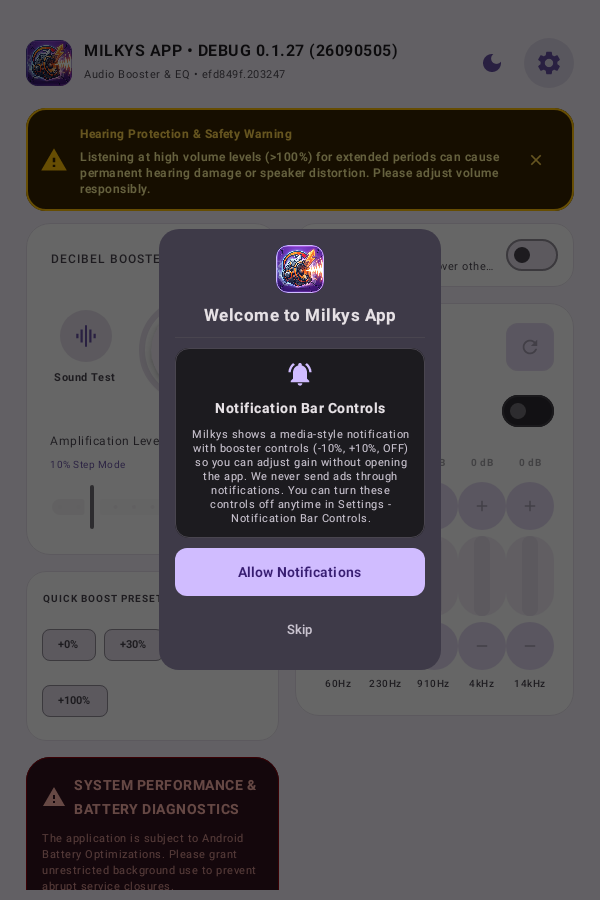
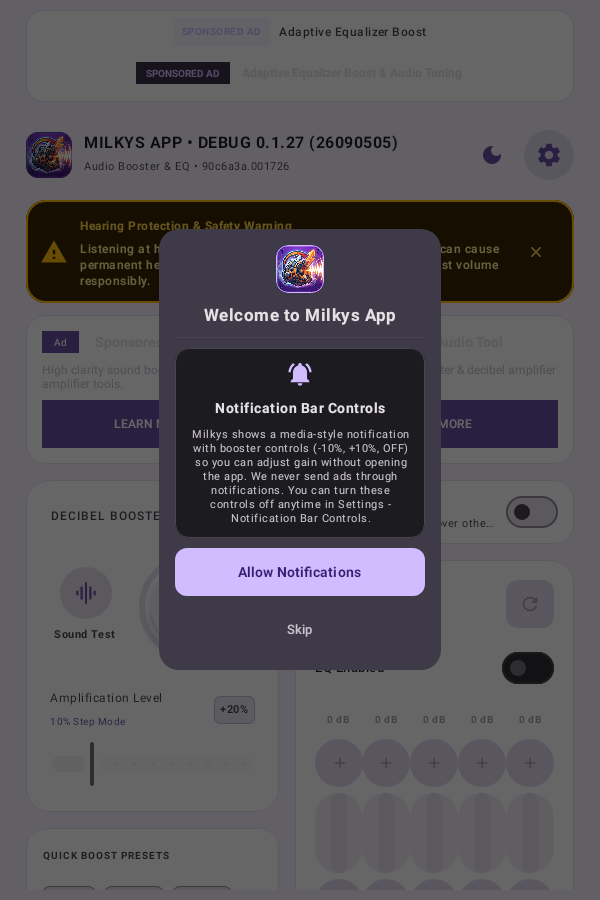
feat(ads): prod AdMob IDs, default-ON, on-by-default privacy redraft
- AdMob prod: app 6770897791730584~3020521714 (14 strings.xml + .env),
  banner /1694908312, native /7039657771 shared by both slots
- KEY_ADS_ENABLED default false->true (fresh installs; upgrades keep stored)
- Privacy fixtures redrafted on-by-default (EN+ID, re-paste before upload)
- Roborazzi refs re-recorded (ads render by default)
- Gates: testDebugUnitTest+lint green, verifyRoborazzi PASS
- Artifacts: debug 6a3a, release AAB upload-signed (26:18:06)

diff --git a/app/src/main/java/com/milkys/soundbooster/MainActivity.kt b/app/src/main/java/com/milkys/soundbooster/MainActivity.kt
@@ -1417,7 +1417,7 @@ fun DashboardScreen(
                                 Surface(
                                     onClick = { languageDropdownExpanded = !languageDropdownExpanded },
                                     shape = RoundedCornerShape(12.dp),
-                                    color = textPrimary,
+                                    color = borderDivider,
                                     border = BorderStroke(1.dp, borderDivider),
                                     modifier = Modifier
                                         .fillMaxWidth()
@@ -2446,7 +2446,7 @@ fun AdaptiveBannerAdCard(
 
                     val adView = adViewClass.getConstructor(Context::class.java).newInstance(ctx) as android.view.View
 
-                    adViewClass.getMethod("setAdUnitId", String::class.java).invoke(adView, "ca-app-pub-3940256099942544/6300978111")
+                    adViewClass.getMethod("setAdUnitId", String::class.java).invoke(adView, "ca-app-pub-6770897791730584/1694908312")
 
                     val displayMetrics = ctx.resources.displayMetrics
                     val adWidthPixels = if (android.os.Build.VERSION.SDK_INT >= android.os.Build.VERSION_CODES.R) {
@@ -2616,7 +2616,7 @@ fun NativeAdCard(
                     nativeAdViewClass.getMethod("setCallToActionView", android.view.View::class.java).invoke(nativeAdView, ctaButton)
 
                     val builderInstance = adLoaderBuilderClass.getConstructor(Context::class.java, String::class.java)
-                        .newInstance(ctx, "ca-app-pub-3940256099942544/2247696110")
+                        .newInstance(ctx, "ca-app-pub-6770897791730584/7039657771")
 
                     val listenerClass = Class.forName("com.google.android.gms.ads.nativead.NativeAd\$OnNativeAdLoadedListener")
                     val proxyInvocationHandler = java.lang.reflect.InvocationHandler { _, method, args ->

diff --git a/app/src/main/java/com/milkys/soundbooster/AudioEffectManager.kt b/app/src/main/java/com/milkys/soundbooster/AudioEffectManager.kt
@@ -84,7 +84,7 @@ object AudioEffectManager {
     private val _isFloatingEnabled = MutableStateFlow(false)
     val isFloatingEnabled: StateFlow<Boolean> = _isFloatingEnabled
 
-    private val _isAdsEnabled = MutableStateFlow(false)
+    private val _isAdsEnabled = MutableStateFlow(true)
     val isAdsEnabled: StateFlow<Boolean> = _isAdsEnabled
 
     private val _adConsentStatus = MutableStateFlow("UNKNOWN") // "UNKNOWN", "GRANTED", "DENIED"
@@ -166,7 +166,7 @@ object AudioEffectManager {
         val preset = prefs.getString(KEY_PRESET, "Flat") ?: "Flat"
         val bandsStr = prefs.getString(KEY_BANDS, "0,0,0,0,0") ?: "0,0,0,0,0"
         val floating = prefs.getBoolean(KEY_FLOATING, false)
-        val adsEnabled = prefs.getBoolean(KEY_ADS_ENABLED, false)
+        val adsEnabled = prefs.getBoolean(KEY_ADS_ENABLED, true)
         val consentStatus = prefs.getString(KEY_AD_CONSENT_STATUS, "UNKNOWN") ?: "UNKNOWN"
         val personalizedConsent = prefs.getBoolean(KEY_PERSONALIZED_ADS_CONSENT, true)
         val sliderStepped = prefs.getBoolean(KEY_SLIDER_STEPPED, true)

diff --git a/qc/fixtures/privacy/general-app-privacy-rewrite-ID.md b/qc/fixtures/privacy/general-app-privacy-rewrite-ID.md
@@ -6,7 +6,7 @@
 
 - Pengembang **tidak mengumpulkan informasi identitas pribadi (PII)**: tanpa nama, email, akun, lokasi, kontak, atau rekaman audio.
 - Peningkatan audio (boost, equalizer, preset) diproses **di perangkat Anda secara real-time**. Audio tidak pernah meninggalkan perangkat.
-- Saat iklan diaktifkan, **Google (AdMob)** dapat memproses pengenal perangkat dan diagnostik berdasarkan [Kebijakan Privasi Google](https://policies.google.com/privacy). Iklan **nonaktif secara default**.
+- Saat iklan diaktifkan, **Google (AdMob)** dapat memproses pengenal perangkat dan diagnostik berdasarkan [Kebijakan Privasi Google](https://policies.google.com/privacy). Iklan **aktif secara default** (nonaktifkan kapan saja di Setelan → Iklan).
 - Halaman ini terdiri dari dua bagian: **Bagian A** (umum, §§2–7, berlaku untuk semua aplikasi pengembang ini) dan **Bagian B** (khusus aplikasi, §8).
 
 ## 2. Cakupan
@@ -33,7 +33,7 @@ Tidak ada SDK pihak ketiga lain yang disematkan. Tidak ada login sosial, pelacak
 
 ## 5. Periklanan dan persetujuan (Google AdMob / UMP)
 
-- Iklan **nonaktif secara default**. Tidak ada yang terkait iklan ditampilkan sebelum Anda mengaktifkan **Setelan → Iklan**.
+- Iklan **aktif secara default** dan tampil setelah Anda membuka aplikasi. Nonaktifkan kapan saja di **Setelan → Iklan** (saat nonaktif, tidak ada yang terkait iklan ditampilkan).
 - Saat diaktifkan, iklan disajikan oleh Google AdMob. Google dapat menggunakan ID Iklan, aktivitas aplikasi, dan diagnostik sebagaimana dijelaskan di §4.
 - **Iklan yang dipersonalisasi** memerlukan persetujuan eksplisit tambahan Anda: **Setelan → Iklan yang Dipersonalisasi**, plus formulir persetujuan Google (UMP) yang ditampilkan bila diwajibkan hukum (mis. EEA/Inggris). Anda dapat mencabut persetujuan kapan saja dari sakelar yang sama; aplikasi kembali ke iklan non-personalisasi atau tanpa iklan sesuai pilihan Setelan → Iklan Anda.
 - Selama pengujian tertutup, materi iklan dapat tampil sebagai **iklan pengujian** resmi Google. Tidak perlu tindakan apa pun; unit iklan produksi berlaku pada rilis publik.

diff --git a/qc/fixtures/privacy/general-app-privacy-rewrite-EN.md b/qc/fixtures/privacy/general-app-privacy-rewrite-EN.md
@@ -6,7 +6,7 @@
 
 - The developer collects **no personally identifiable information (PII)**: no names, emails, accounts, locations, contacts, or audio recordings.
 - Audio enhancement (boost, equalizer, presets) is processed **on your device in real time**. Audio never leaves the device.
-- When ads are enabled, **Google (AdMob)** may process device identifiers and diagnostics under [Google's Privacy Policy](https://policies.google.com/privacy). Ads are **off by default**.
+- When ads are enabled, **Google (AdMob)** may process device identifiers and diagnostics under [Google's Privacy Policy](https://policies.google.com/privacy). Ads are **on by default** (disable anytime in Settings → Ads).
 - This page has two parts: **Part A** (general, §§2–7, applies to all apps by this developer) and **Part B** (app-specific, §8).
 
 ## 2. Scope
@@ -33,7 +33,7 @@ No other third-party SDKs are embedded. There are no social logins, analytics tr
 
 ## 5. Advertising and consent (Google AdMob / UMP)
 
-- Ads are **off by default**. Nothing ad-related renders until you enable **Settings → Ads**.
+- Ads are **on by default** and render once you open the app. Turn them off anytime in **Settings → Ads** (when off, nothing ad-related renders).
 - When enabled, ads are served by Google AdMob. Google may use the Advertising ID, app activity, and diagnostics as described in §4.
 - **Personalized ads** require your additional, explicit consent: **Settings → Personalized Ads**, plus the Google consent (UMP) form shown where the law requires it (e.g. EEA/UK). You may withdraw consent at any time from the same switch; the app then falls back to non-personalized ads or no ads per your Settings → Ads choice.
 - During closed testing, creatives may render as Google-designated **test ads**. No action is needed; production ad units apply at the public release.
